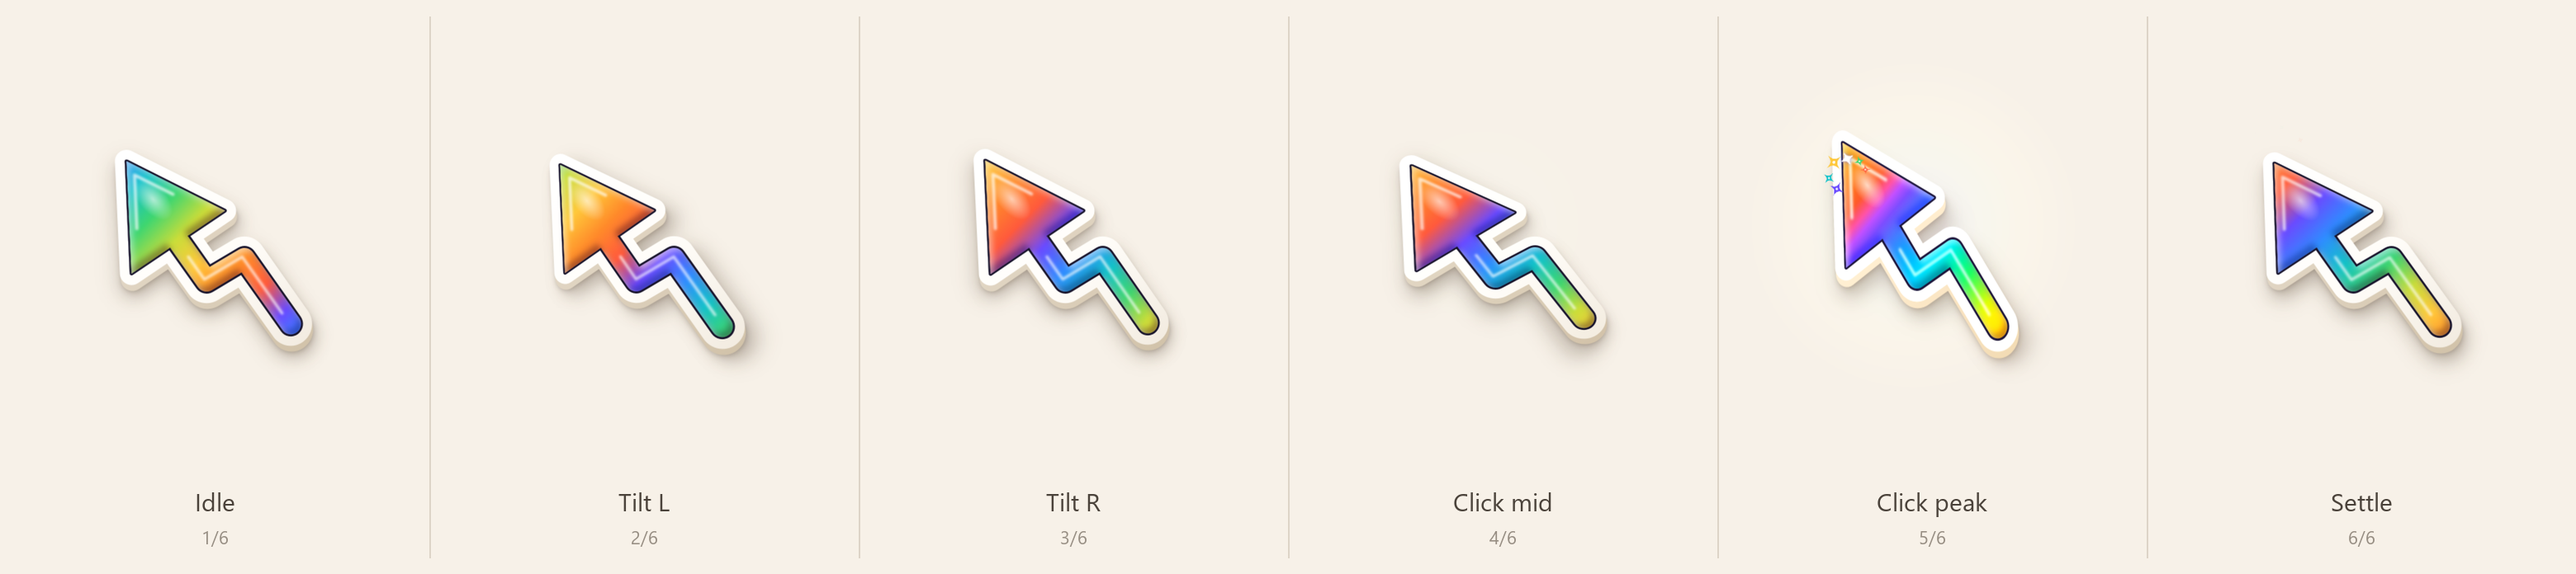
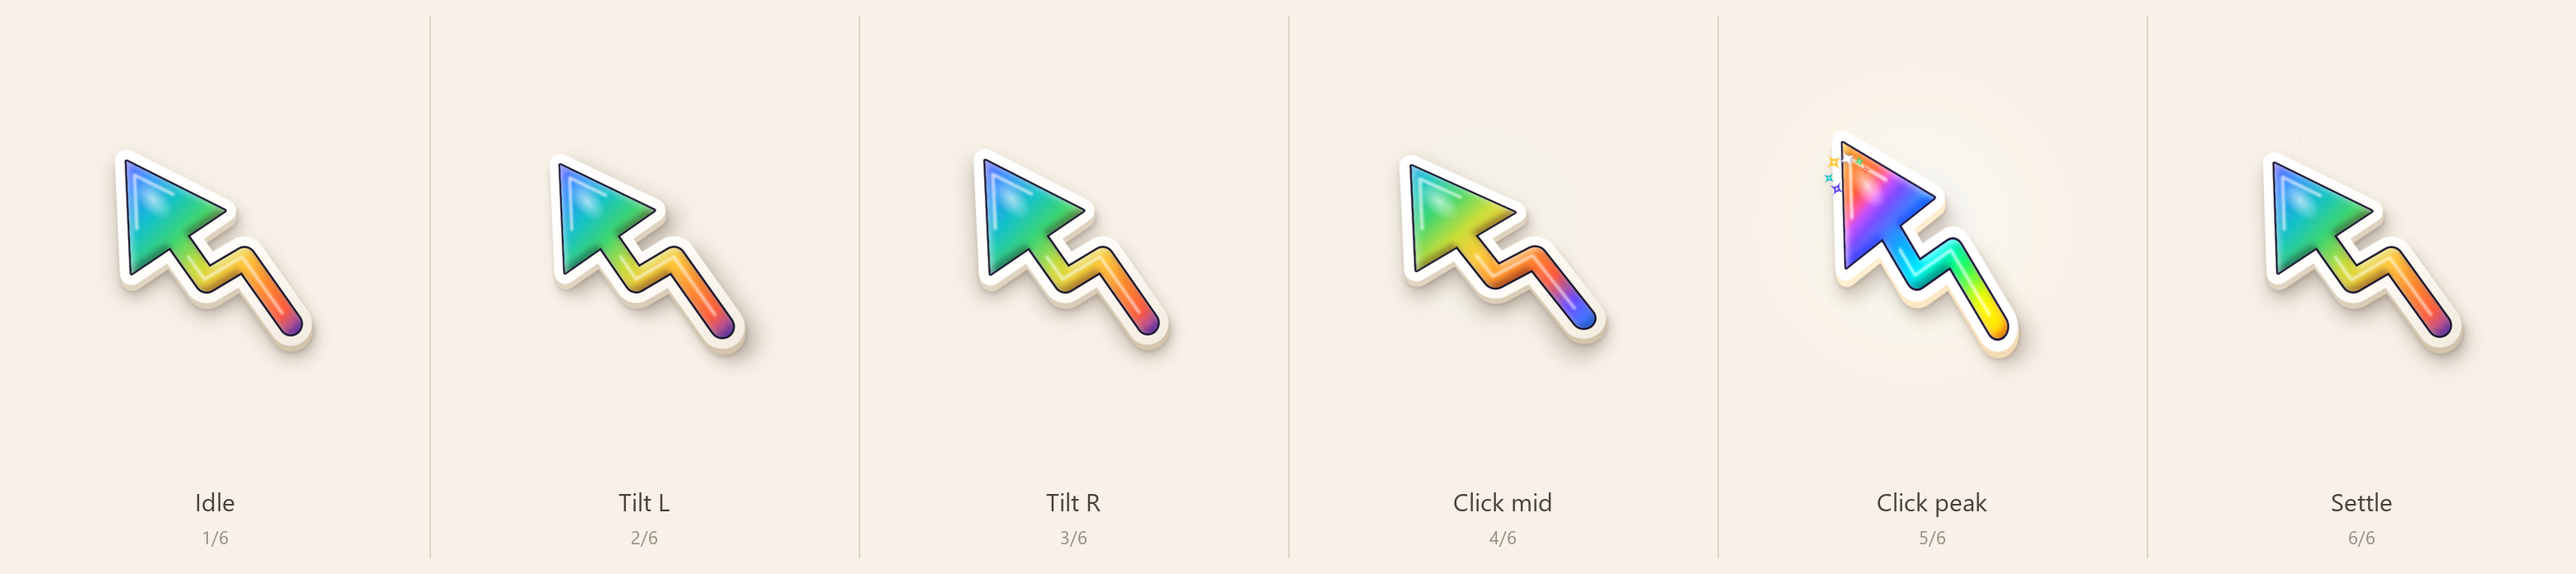
cursor demo: gradient static at rest, one rainbow sweep per click; GIF and strip re-rendered

diff --git a/site/cursor-demo/merged.html b/site/cursor-demo/merged.html
@@ -87,10 +87,11 @@ function shape(paint, bodyW, headW, more) {
 var RIM = [2 * (C + E + R), 2 * (E + R)], EDGE = [2 * (C + E), 2 * E], GEL = [2 * C, .2];
 
 /* the spectrum: one rainbow along the body, tip to tail, written twice (0 to 1 covers two) and closed
-   on its first colour so the repeat has no seam; it travels toward the head by exactly one rainbow
-   every 3.2 seconds, so the loop is seamless by construction */
+   on its first colour so the repeat has no seam. At rest it stands still (2026-10-06, Karan: "only make
+   it change the gradient when clicked, when not clicked make the gradient static"); each click runs it
+   one full rainbow toward the head over the pulse, so it lands exactly where it started */
 var RAINBOW = ['#6A4BFF', '#2F8CFF', '#13C2C9', '#3FD670', '#C9DD3A', '#FFC83A', '#FF8A2A', '#FF5A3C'];
-var SPECTRUM_S = 3.2;
+var SPIN = bezier(.25, .1, .2, 1);                                   /* off with the click, landing softly */
 var AX = [BODY[0][0] - TIP[0], BODY[0][1] - TIP[1]], AL = Math.hypot(AX[0], AX[1]);
 var DX = AX[0] / AL, DY = AX[1] / AL;
 var PERIOD = 80;                                                      /* one rainbow, in grid units along the axis */
@@ -105,7 +106,6 @@ var markSVG =
 '<svg class="mark" viewBox="-7 -8 76 76" aria-label="Domin8te growth cursor" role="img">' +
 '<defs>' +
   '<linearGradient id="spec" gradientUnits="userSpaceOnUse" spreadMethod="repeat" x1="' + f2(G1[0]) + '" y1="' + f2(G1[1]) + '" x2="' + f2(G2[0]) + '" y2="' + f2(G2[1]) + '">' + stops() +
-    '<animateTransform attributeName="gradientTransform" type="translate" from="0 0" to="' + f2(-PERIOD * DX) + ' ' + f2(-PERIOD * DY) + '" dur="' + SPECTRUM_S + 's" repeatCount="indefinite"/>' +
   '</linearGradient>' +
   '<linearGradient id="rimG" gradientUnits="userSpaceOnUse" x1="4" y1="2" x2="58" y2="60"><stop offset="0" stop-color="#FFFFFF"/><stop offset=".55" stop-color="#FFFDF9"/><stop offset="1" stop-color="#F3ECE1"/></linearGradient>' +
   '<linearGradient id="exG" gradientUnits="userSpaceOnUse" x1="4" y1="2" x2="58" y2="60"><stop offset="0" stop-color="#E8DECF"/><stop offset="1" stop-color="#D2C3AA"/></linearGradient>' +
@@ -154,7 +154,7 @@ var depth = document.getElementById('depth'), bloom = document.getElementById('b
 var sparksEl = document.getElementById('sparks'), scene = document.getElementById('scene');
 pulseEl.innerHTML = markSVG;
 depth.innerHTML = shadeSVG;
-var mark = pulseEl.querySelector('svg'), gloss = mark.getElementById ? mark.getElementById('gloss') : mark.querySelector('#gloss');
+var mark = pulseEl.querySelector('svg'), spec = mark.querySelector('#spec'), gloss = mark.getElementById ? mark.getElementById('gloss') : mark.querySelector('#gloss');
 
 /* ---------------------------------------------------------------- the growth pulse
    520 ms; CSS keyframe semantics: the easing runs within each step, exactly as an @keyframes rule
@@ -228,6 +228,8 @@ function apply(rx, ry, pms, seed) {
   /* the light stays put while the mark turns: its highlights slide a touch the other way */
   gloss.setAttribute('transform', 'translate(' + (-ry * .035).toFixed(3) + ' ' + (rx * .035).toFixed(3) + ')');
   var p = pulseAt(pms), S = scene.offsetWidth;
+  var k = p ? SPIN(pms / DUR) : 0;
+  spec.setAttribute('gradientTransform', k ? 'translate(' + (-PERIOD * DX * k).toFixed(3) + ' ' + (-PERIOD * DY * k).toFixed(3) + ')' : '');
   if (p) {
     pulseEl.style.transform = 'scale(' + p.sx.toFixed(4) + ',' + p.sy.toFixed(4) + ') translate(' + p.tx.toFixed(2) + 'px,' + p.ty.toFixed(2) + 'px)';
     pulseEl.style.filter = p.flash > .001 ? 'brightness(' + (1 + .13 * p.flash).toFixed(3) + ') saturate(' + (1 + .38 * p.flash).toFixed(3) + ')' : 'none';
@@ -277,7 +279,7 @@ if (!RENDER) {
      clicks; a breath; a second click. The tilt is stepped exactly as the page steps it (the same lerp,
      at a fixed 240 Hz), run in from two loops back so it is settled; over the last half second it is
      blended into the loop's own start, so the GIF has no seam */
-  var LOOP = SPECTRUM_S, HZ = 240, CLICKS = [1.9, 2.64];
+  var LOOP = 3.2, HZ = 240, CLICKS = [1.9, 2.64];
   function mouseAt(t) {
     var w = ((t % LOOP) + LOOP) % LOOP;
     if (w >= .9 && w < 1.4) return [-1, 0];
@@ -294,13 +296,10 @@ if (!RENDER) {
     }
   })();
   function S_at(t) { var i = Math.round(t * HZ) - n0; return track[Math.max(0, Math.min(track.length - 1, i))] }
-  var svgs = [mark];
-  svgs.forEach(function (s) { s.pauseAnimations() });
   window.__frame = function (t) {
     var a = S_at(t), b = S_at(t - LOOP), w = smooth((t - (LOOP - .5)) / .5);
     var pms = -1e9, seed = 0;
     CLICKS.forEach(function (c, i) { if (t >= c) { pms = (t - c) * 1000; seed = i + 1 } });
-    svgs.forEach(function (s) { s.setCurrentTime(t % SPECTRUM_S) });
     apply(a[0] + (b[0] - a[0]) * w, a[1] + (b[1] - a[1]) * w, pms, seed);
     return true;
   };

diff --git a/build/cursor-demo/clickcheck.js b/build/cursor-demo/clickcheck.js
@@ -1,0 +1,21 @@
+/* the live page (not ?render): a real mouse click, then the gradient's offset sampled over time */
+const { spawn } = require('child_process'); const fs = require('fs'), path = require('path'), os = require('os');
+const port = 9300 + Math.floor(Math.random() * 500), prof = fs.mkdtempSync(path.join(os.tmpdir(), 'cdp-'));
+const ch = spawn('C:/Program Files/Google/Chrome/Application/chrome.exe', ['--headless=new', `--remote-debugging-port=${port}`, `--user-data-dir=${prof}`, '--window-size=900,900', 'about:blank'], { stdio: 'ignore' });
+const sleep = ms => new Promise(r => setTimeout(r, ms));
+(async () => {
+  let tabs; for (let i = 0; i < 50; i++) { try { tabs = await (await fetch(`http://127.0.0.1:${port}/json`)).json(); if (tabs.length) break } catch { } await sleep(200) }
+  const ws = new WebSocket(tabs.find(t => t.type === 'page').webSocketDebuggerUrl); await new Promise(r => ws.onopen = r);
+  let id = 0; const pend = new Map(); ws.onmessage = e => { const m = JSON.parse(e.data); if (m.id && pend.has(m.id)) { pend.get(m.id)(m); pend.delete(m.id) } };
+  const send = (method, params = {}) => new Promise(r => { const i = ++id; pend.set(i, r); ws.send(JSON.stringify({ id: i, method, params })) });
+  const ev = async x => (await send('Runtime.evaluate', { expression: x, returnByValue: true })).result.result.value;
+  await send('Page.enable'); await send('Page.navigate', { url: 'file:///C:/Work/domin8te-media/cursor-demo/merged.html' }); await sleep(1200);
+  const g = "document.querySelector('#spec').getAttribute('gradientTransform')||'(rest)'";
+  const rest = [await ev(g)]; await sleep(800); rest.push(await ev(g));
+  await send('Input.dispatchMouseEvent', { type: 'mouseMoved', x: 450, y: 450 });
+  await send('Input.dispatchMouseEvent', { type: 'mousePressed', x: 450, y: 450, button: 'left', clickCount: 1 });
+  await send('Input.dispatchMouseEvent', { type: 'mouseReleased', x: 450, y: 450, button: 'left', clickCount: 1 });
+  const run = []; for (let i = 0; i < 8; i++) { await sleep(90); run.push(await ev(g)) }
+  console.log('at rest:', rest.join(' | ')); console.log('after click:', run.join(' | '));
+  ws.close(); ch.kill(); process.exit(0);
+})();
